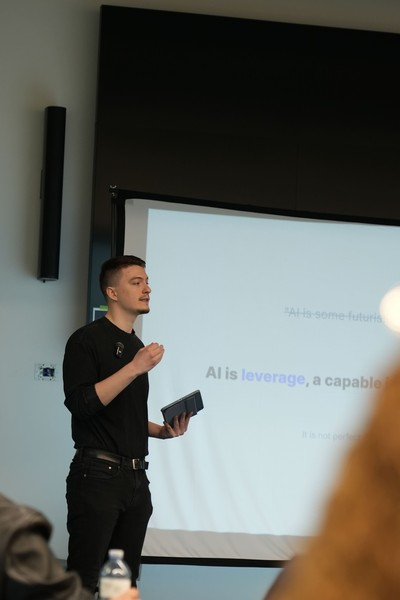
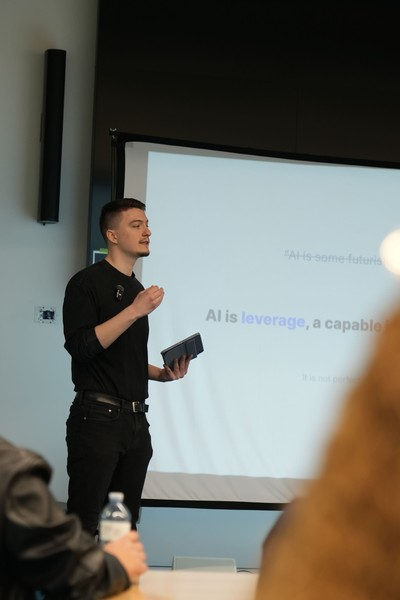
fix: tighten about section photo crop

diff --git a/memory/2026-03-27.md b/memory/2026-03-27.md
@@ -40,3 +40,9 @@
 - Rotated the original upright, cropped it tighter around Dmytro, and exported `public/images/about-speaking-400.jpg`, `about-speaking-600.jpg`, and `about-speaking-800.jpg`.
 - Updated `src/components/AboutSection.tsx` to point to the new responsive images and revised the alt text.
 - Verified with `npm run build`.
+
+## 21:54 MDT — About photo crop tightened
+- Reduced the empty space above Dmytro's head in the About section image.
+- Kept the presentation context and visible slide text while tightening the portrait crop.
+- Re-exported `public/images/about-speaking-400.jpg`, `about-speaking-600.jpg`, and `about-speaking-800.jpg`.
+- Verified with `npm run build`.

diff --git a/memory/STATUS.md b/memory/STATUS.md
@@ -2,6 +2,11 @@
 
 **Last updated:** 2026-03-21 03:09 MDT
 
+## Update 2026-03-27 21:54 MDT
+- Tightened the new About section presentation photo crop after Dmytro feedback.
+- Reduced empty space above the head while preserving the presenter framing and visible projector text.
+- Re-exported the responsive `about-speaking-400/600/800.jpg` assets and re-verified the build.
+
 ## Update 2026-03-27 21:50 MDT
 - Replaced the About section photo with a new presentation image provided by Dmytro.
 - Rotated the source photo upright, created a tighter portrait crop focused on Dmytro speaking, and exported new responsive assets: `about-speaking-400/600/800.jpg`.
